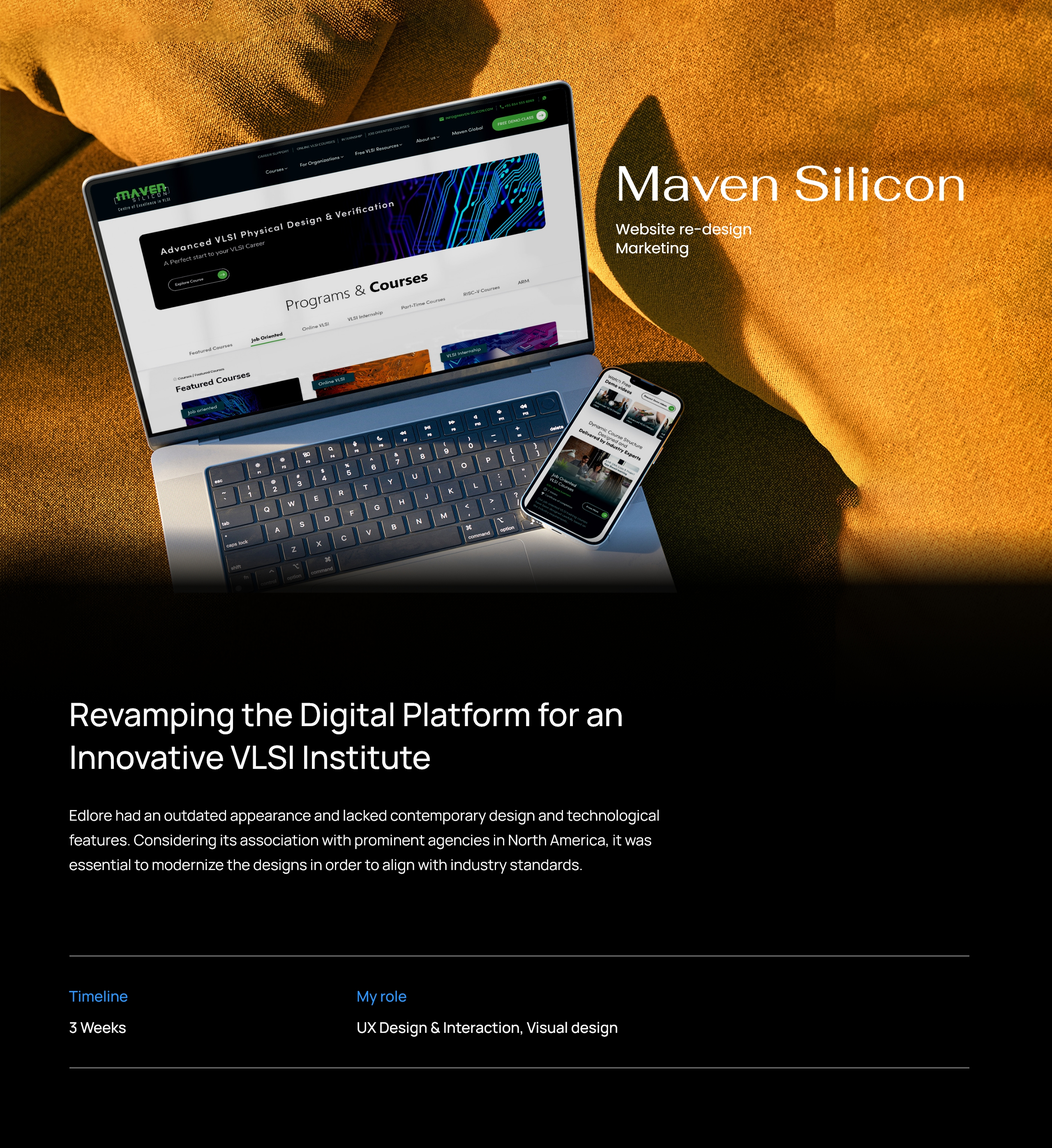
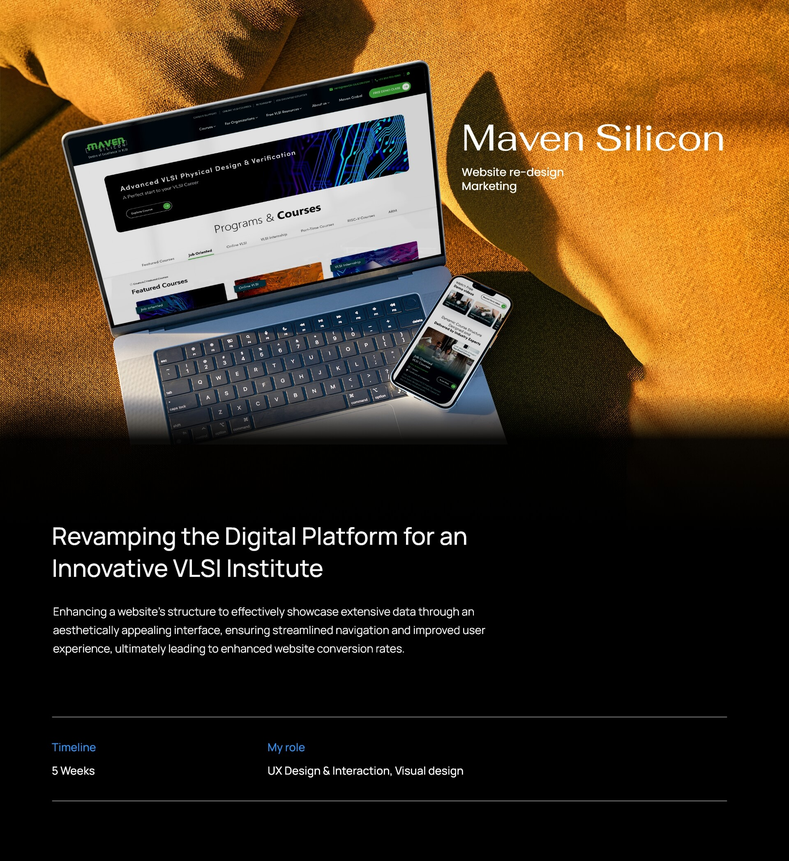
Maven Hero Change

diff --git a/src/Components/Global/ProjectView.jsx b/src/Components/Global/ProjectView.jsx
@@ -17,6 +17,7 @@ const ProjectView = ({ projectImages, projectVideos }) => {
                       alt={`maven-silicon-${index}`}
                       key={index}
                       fluid
+                      className="w-100"
                     />
                   </Col>
                 );
